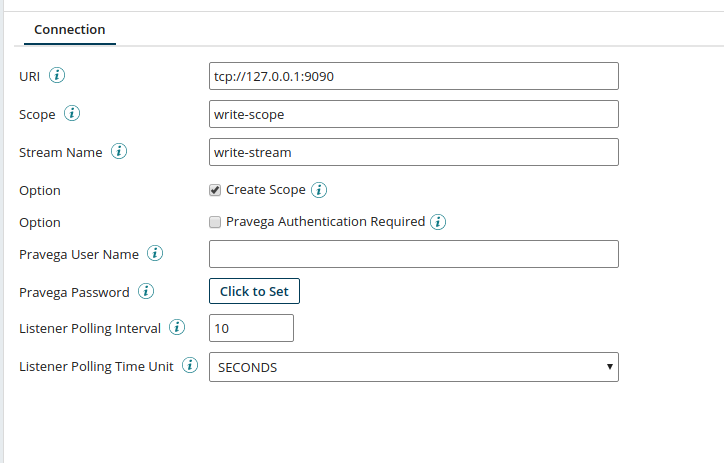
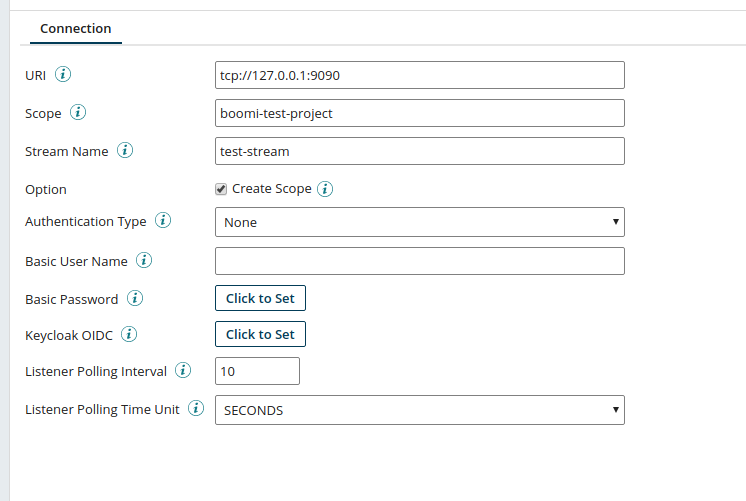
Release 2.1 Docs (#35)
* Updated all docs for 2.1 release

Changed region(s): [[0.0, 0.0, 1.0, 0.8467], [0.8204, 0.7862, 0.8508, 0.8467]]

diff --git a/doc/Pravega Connector Getting Started Guide.md b/doc/Pravega Connector Getting Started Guide.md
@@ -23,6 +23,10 @@ and time unit. When finished with the settings, we can check the connection usin
 
 In this example, we are running a Pravega stand-alone server locally on port 9090. We provide a scope, stream name and check the option to create this scope (the connector will automatically create the scope if it doesn't already exist) - note that this option cannot be used with SDP. We also provide a listener polling interval and time unit for listener operations that belong to this connector.  The polling interval will be 10 seconds.  This means that any listener operations will read batches of events from the stream every 10 seconds.
 
+![](SDP_connection.png)
+
+In this example, we are running a Pravega in SDP on port 9090. We provide a scope, stream name and uncheck the option to create this scope (the connector will not automatically create the scope if it doesn't already exist. We need to create scope in SDP UI before creating this connection). We also provide a listener polling interval and time unit for listener operations that belong to this connector.  The polling interval will be 10 seconds.  This means that any listener operations will read batches of events from the stream every 10 seconds. For SDP support, we need to provide keycloak as a authentication type and a valid Keycloak OIDC JSON installation file, including Keycloak endpoint and credentials. This is obtained from the Keycloak server.
+
 **Create a Write Operation**
 
 Write is an outbound action to write streaming data in Pravega. Here is an example to create a write operation. We need to specify, which routing key type we will use. &quot;Fixed&quot; means to use the literal value of the Routing Key. For example if we provide &quot;foo&quot; as a fixed Routing key, then &quot;foo&quot; will be used for every event. &quot;JsonReference&quot; means the event data is JSON and the value will be extracted from the body using the Routing Key as a JSON reference (i.e. a value of &quot;myVar&quot; will look for the &quot;myVar&quot; key in the JSON of each event, and use its corresponding value as the routing key for that event).

diff --git a/doc/Pravega Connector User's Guide.md b/doc/Pravega Connector User's Guide.md
@@ -56,9 +56,10 @@ _Connector Options_
 - **Scope** : (Required) The Pravega scope containing the data stream.
 - **Stream Name** : (Required) The name of the data stream to read or write.
 - **Create Scope** : When checked, Pravega scope will be automatically created. Only enable this if Pravega is running in stand-alone mode.
-- **Pravega Authentication Required** : Indicates whether authentication is required for Pravega.
-- **Pravega Username** : Used when Pravega authentication is required.
-- **Pravega Password** : Used when Pravega authentication is required.
+- **Pravega Authentication Type**: Specifies the type of authentication to use with Pravega. "None" means Pravega does not have any authentication enabled (only suitable for development environments). "Basic" means Pravega is running in an independent cluster and has basic auth enabled - this option requires you specify a valid username and password. "Keycloak" means Pravega is integrated with Keycloak (i.e. inside Streaming Data Platform) - this option requires you specify a valid Keycloak OIDC JSON installation file, including Keycloak endpoint and credentials. This is obtained from the Keycloak server.
+- **Basic Username**: An authorized Pravega user. Only used when Authentication Type is set to "Basic".
+- **Basic Password**: The Pravega user's password. Only used when Authentication Type is set to "Basic".
+- **Keycloak OIDC**: A valid Keycloak OIDC JSON installation file, including Keycloak endpoint and credentials. This is obtained from the Keycloak server.
 - **Listener Polling Interval** : The Listen operation uses a polling schedule.  This parameter specifies the interval between each poll.  For example, specifying 1 minute means that any Listen operations from this connector would poll for new events every minute.
 - **Listener Polling Time Unit** : The time unit to use for the Listener Polling Interval.  For example, if the Polling Interval is 1 and the Time Unit is Minute, then the Listen operation would poll for new events every 1 Minute.
 

diff --git a/README.md b/README.md
@@ -29,7 +29,7 @@ This will build a connector package which you can upload to your Boomi account. 
 ```
 ./gradlew dependencyJar
 ```
-This will build a fat jar with all of the dependencies required for the connector to work. Upload this as an account library and create a custom library for the Pravega connector and deploy it to any environment that will run the connector.
+This will build (only for version 1.0.0) a fat jar with all of the dependencies required for the connector to work. Upload this as an account library and create a custom library for the Pravega connector and deploy it to any environment that will run the connector.
 
 # Create a Custom Connector
 _Note: once the connector is published, it will be available to everyone in the Boomi Platform, and you can skip to the [Custom Connector Library](#custom-connector-library) section._
@@ -85,3 +85,5 @@ If you require a custom connector library to deploy the Pravega connector (read 
 |Github Release Version|Boomi Platform Version|Download Link|Checksums|
 |---:|---:|---|---|
 |1.0.0|2|[boomi-pravega-connector-1.0.0-dependencies.jar](https://132173853047869709.public.ecstestdrive.com/pravega-boomi/boomi-pravega-connector-1.0.0-dependencies.jar)|MD5: c604f50683d8df50c38f480bc8ae0fbd<br>SHA1: 845aa1a9c792553d42a01b59587a45f7d279febe<br>SHA256: 35c4e5e8b4ad0ba66d7b2d52218cd77ebd2208952ab22a69a1245fcc5c7e895b|
+|2.0.0|2| No dependency jar needed.||
+|2.1.0|2|[netty-tcnative-boringssl-static-2.0.17.Final.jar](https://repo1.maven.org/maven2/io/netty/netty-tcnative-boringssl-static/2.0.17.Final/netty-tcnative-boringssl-static-2.0.17.Final.jar)|MD5: 60f88be0fa76bc2d1b89f71725910441<br>SHA1: b1e5acbde8c444c656131238ac6ab9e73f694300<br>SHA256: a71bf392a955bbde8665fc5d44abff8e3fef3dcee74c2821aa5690d7e65bc2be|
